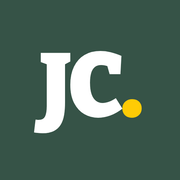
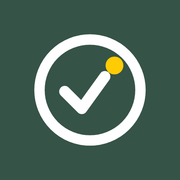
feat(brand): a mark for the header — a ring, a rising check, the warm dot — ADR 0011
Logo.astro draws the mark on the same 32-unit grid the icons use: a ring,
a check whose arm rises out of it, and the yellow dot at the top of the
rise. Every shape is already the site's — the ring and tick are the
checklist's, the rise is the steps' track, the dot is what the headlines
end on — so it reads as a check and as a way up rather than as a new
motif. The ring and stroke take currentColor and the dot takes --c-mark,
which resolves to green on a light band where yellow would fail contrast.

It sits left of the wordmark in the header and the footer. On phones the
mark stands alone: measured at 375, the CTA needs 209 of the 327 pixels
inside the padding, which left the name less room than the word
"Consulting" and pushed the header to 146px tall; the name stays in the
markup for assistive tech and search, and the header is back to 121px.

brand-assets.mjs redraws the same geometry, so the favicon, the
home-screen icons and the share image now carry the mark instead of the
"JC." lettering. Re-rendered and committed.

Claude-Session: https://claude.ai/code/session_01SxRL4E642f7f7GjRpVDVWs

Changed region(s): [[0.1667, 0.1667, 0.8333, 0.8333]]

diff --git a/docs/decisions/0011-one-warm-mark.md b/docs/decisions/0011-one-warm-mark.md
@@ -36,9 +36,13 @@ live site today.
    every page's `h1` ends in the mark, through `PageHero.astro`. Still one
    mark per page, still the headline's closing punctuation, never a word.
 5. Added the same day: the app icon and the social preview image carry the
-   mark too — "JC" with the dot, and the hero headline's full stop. They are
-   the brand mark and the hero reproduced, not new places on the pages, and
-   `scripts/brand-assets.mjs` renders both from the same tokens.
+   mark too. They are the brand mark and the hero reproduced, not new places
+   on the pages, and `scripts/brand-assets.mjs` renders both from the same
+   tokens.
+7. The brand mark itself (`src/components/ui/Logo.astro`, in the header and
+   the footer) ends on the dot: a ring, a rising check, and the warm point
+   the rise reaches for. It is the fourth and last place the yellow appears —
+   headline, icon, share image, mark — and all four are the same gesture.
 
 ## Consequences
 
